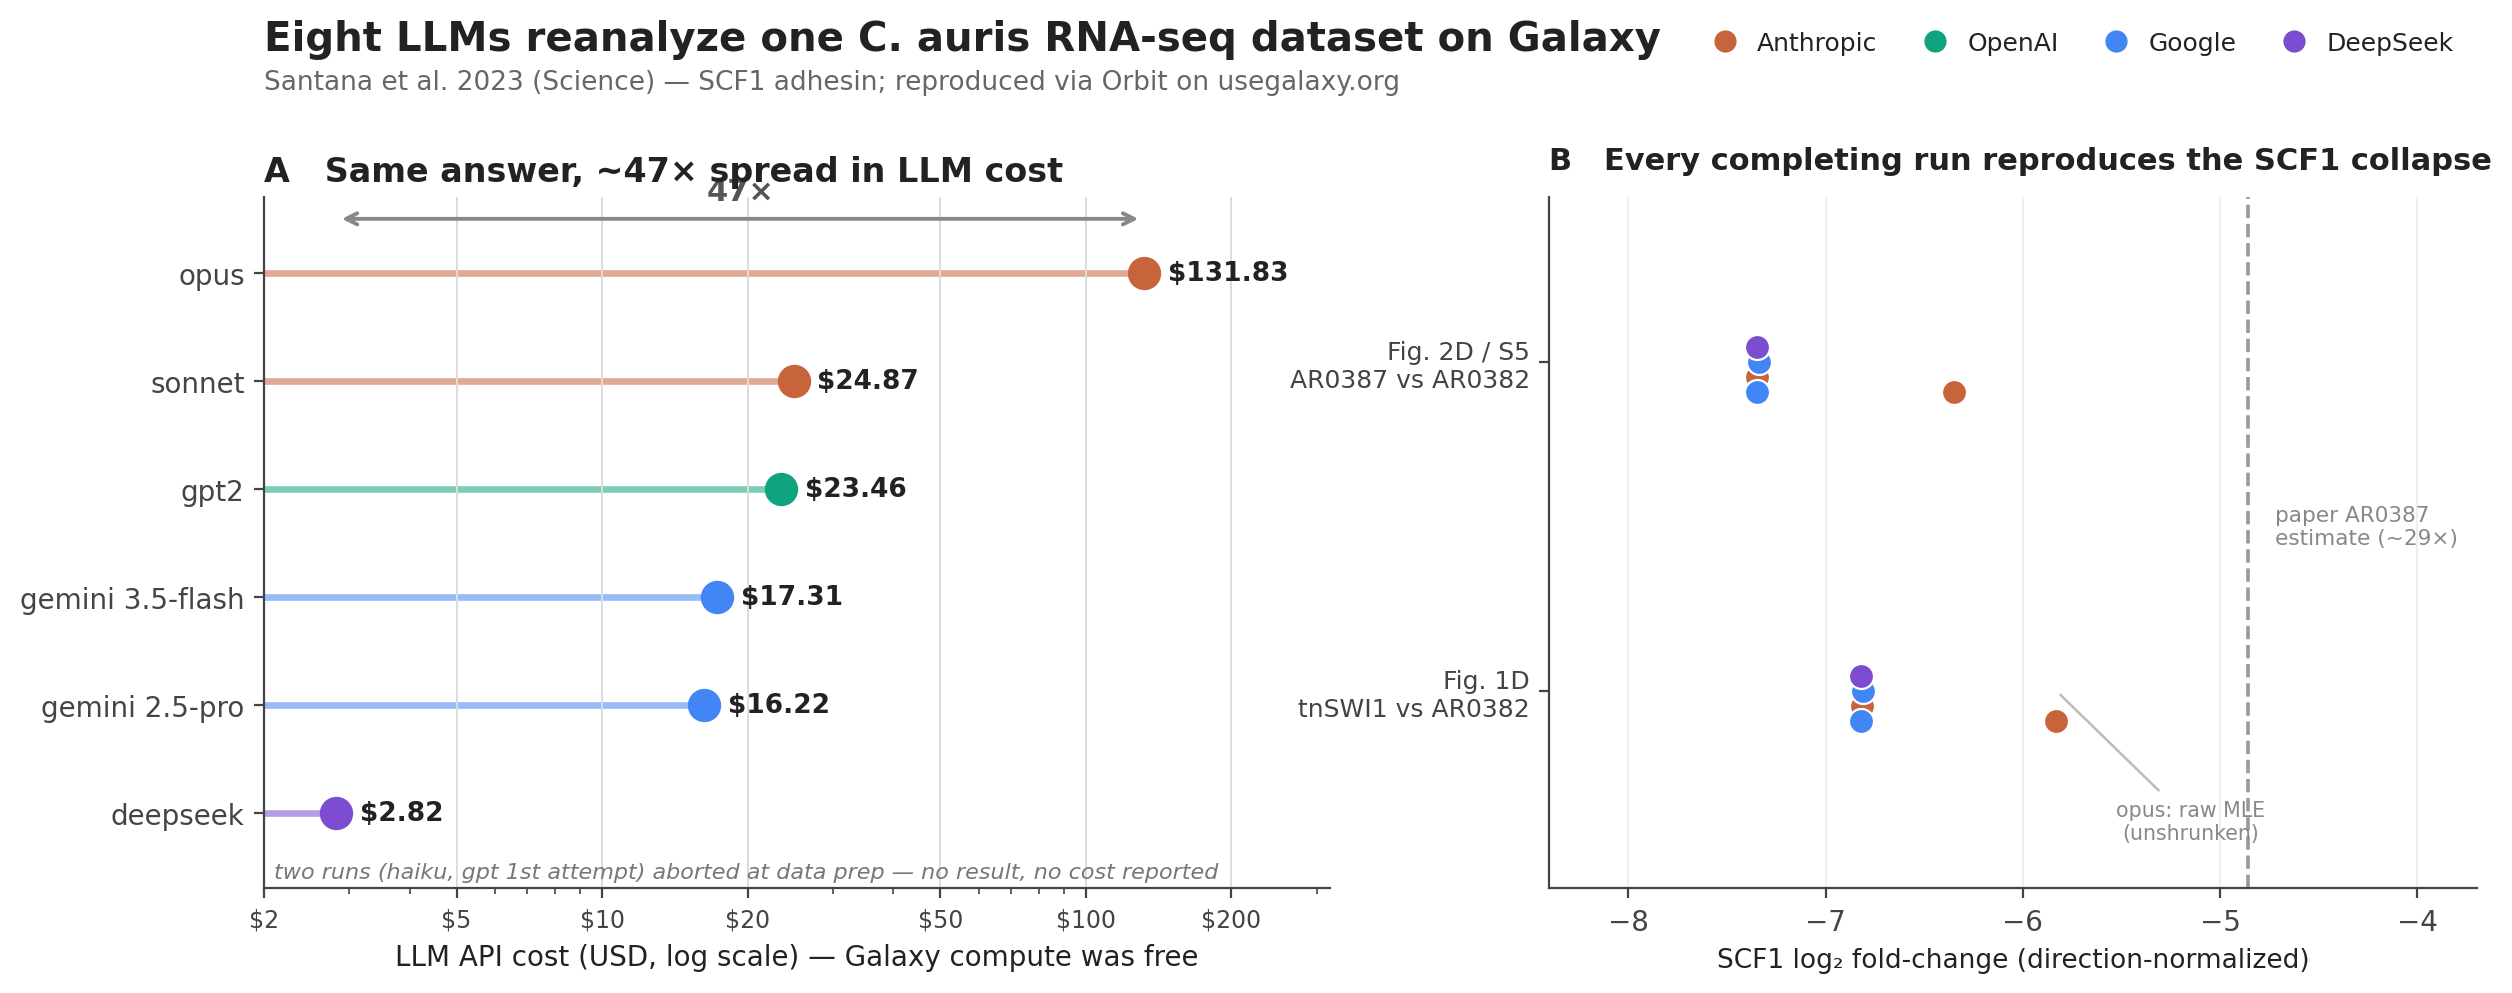
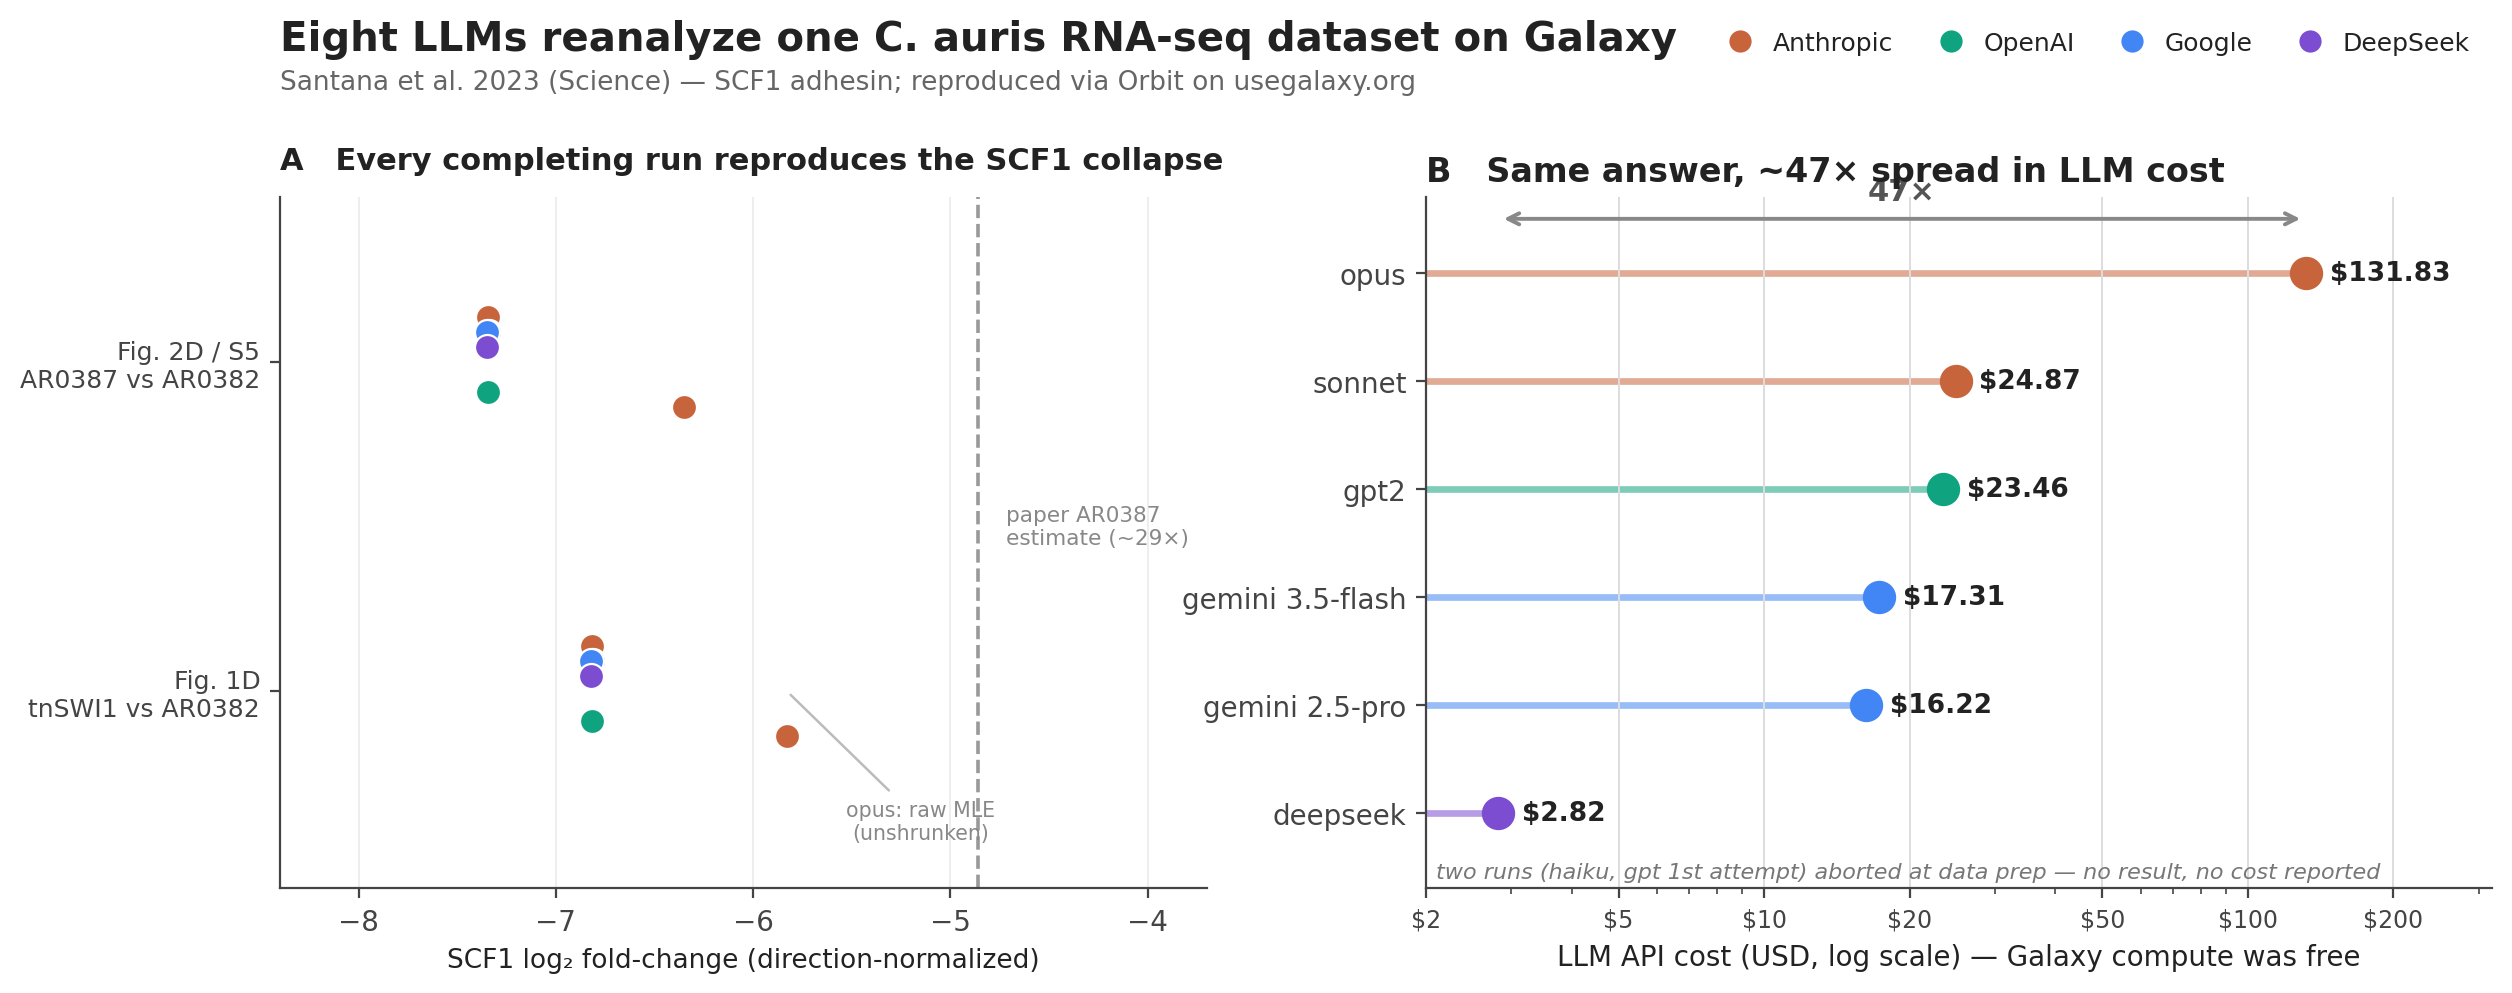
News: fill MCP/DIAMOND links, swap figure panels (result first, cost second)

diff --git a/content/news/2026/2026-06-09-llm-agents-reanalyze-rnaseq/index.md b/content/news/2026/2026-06-09-llm-agents-reanalyze-rnaseq/index.md
@@ -13,7 +13,7 @@ What happens when you hand a published bioinformatics analysis to an AI agent an
 
 ## The setup
 
-We took the bulk RNA-seq data from [Santana et al. 2023, *Science*](https://pmc.ncbi.nlm.nih.gov/articles/PMC11235122/)—the study that identified **Scf1** as a *Candida auris*-specific adhesin—and asked eight large language models to reanalyze it independently. Each model drove an [Orbit](https://github.com/galaxyproject/loom) session (the agentic interface to Galaxy built on the Loom harness), connected to [usegalaxy.org](https://usegalaxy.org) through the Galaxy MCP server[ADD LINK], with reference data from [BRC-analytics](https://github.com/galaxyproject/brc-analytics).
+We took the bulk RNA-seq data from [Santana et al. 2023, *Science*](https://pmc.ncbi.nlm.nih.gov/articles/PMC11235122/)—the study that identified **Scf1** as a *Candida auris*-specific adhesin—and asked eight large language models to reanalyze it independently. Each model drove an [Orbit](https://github.com/galaxyproject/loom) session (the agentic interface to Galaxy built on the Loom harness), connected to [usegalaxy.org](https://usegalaxy.org) through the [Galaxy MCP server](https://github.com/galaxyproject/galaxy-mcp), with reference data from [BRC-analytics](https://github.com/galaxyproject/brc-analytics).
 
 The task was identical for every model: build a paired-end collection from the six samples (BioProject `PRJNA904261`), run the IWC `rnaseq-pe` and `rnaseq-de` workflows on the current *C. auris* B8441 v3 assembly, reproduce the two key `DESeq2` contrasts from the paper, and recreate a labeled volcano plot highlighting *SCF1*. The lineup: Claude Opus, Sonnet, and Haiku; OpenAI GPT-5.5 (two attempts); Google Gemini 2.5 Pro and Gemini 3.5 Flash; and DeepSeek.
 
@@ -23,15 +23,15 @@ Six of the eight runs completed the full analysis, and all six independently rep
 
 ![SCF1 expression across the eight reanalysis attempts](./scf1-across-attempts.png)
 
-**Panel B** shows how tightly the completing runs agree on the *SCF1* fold-change—every model lands in a narrow band, with only Opus mildly attenuated because it reported raw, unshrunken `DESeq2` estimates. The underlying signal is dramatic: *SCF1* falls from ~46,000 normalized counts in the adhesive wild type to a few hundred in the mutant and the poorly-adhesive isolate. The result is robust across models, and robust to a newer genome annotation than the original authors used.
+**Panel A** shows how tightly the completing runs agree on the *SCF1* fold-change—every model lands in a narrow band, with only Opus mildly attenuated because it reported raw, unshrunken `DESeq2` estimates. The underlying signal is dramatic: *SCF1* falls from ~46,000 normalized counts in the adhesive wild type to a few hundred in the mutant and the poorly-adhesive isolate. The result is robust across models, and robust to a newer genome annotation than the original authors used.
 
 ## Gene names if a %^&$-ing nightmare
 
-The paper used the B8441 *v2* assembly, whose locus tags read like `B9J08_001458` (SCF1). The current *v3* assembly re-numbered those tags—and not by a simple zero-strip. The naive guess `B9J08_001458` → `B9J08_01458` resolves to a *different* gene, one with no differential expression at all. Two models initially followed that mapping and reported *SCF1* as not differentially expressed—a false negative—before recovering. The correct way to fix this poroblem is protein-level reciprocal-best-hit matching with DIAMOND[ADD REFERENCE], which maps `B9J08_001458` to v3 `B9J08_03708`. 
+The paper used the B8441 *v2* assembly, whose locus tags read like `B9J08_001458` (SCF1). The current *v3* assembly re-numbered those tags—and not by a simple zero-strip. The naive guess `B9J08_001458` → `B9J08_01458` resolves to a *different* gene, one with no differential expression at all. Two models initially followed that mapping and reported *SCF1* as not differentially expressed—a false negative—before recovering. The correct way to fix this poroblem is protein-level reciprocal-best-hit matching with [DIAMOND](https://doi.org/10.1038/s41592-021-01101-x), which maps `B9J08_001458` to v3 `B9J08_03708`. 
 
 ## Cost spanned ~47× for the same answer
 
-Because Galaxy compute is free on usegalaxy.org, the only cost was the LLM API spend, which makes the figures directly comparable (**Panel A**). They ranged ~47×, from $131.83 for the most thorough run—fully labeled figures and a polished report—down to $2.82 for a run that reached the same scientific conclusion. 
+Because Galaxy compute is free on usegalaxy.org, the only cost was the LLM API spend, which makes the figures directly comparable (**Panel B**). They ranged ~47×, from $131.83 for the most thorough run—fully labeled figures and a polished report—down to $2.82 for a run that reached the same scientific conclusion. 
 
 We also observed a clean demonstration of Galaxy's reproducibility: two runs that used the unmodified IWC workflows with identical parameters produced **bit-identical** `DESeq2` tables, matching to twelve figures after the decimal divider. 
 